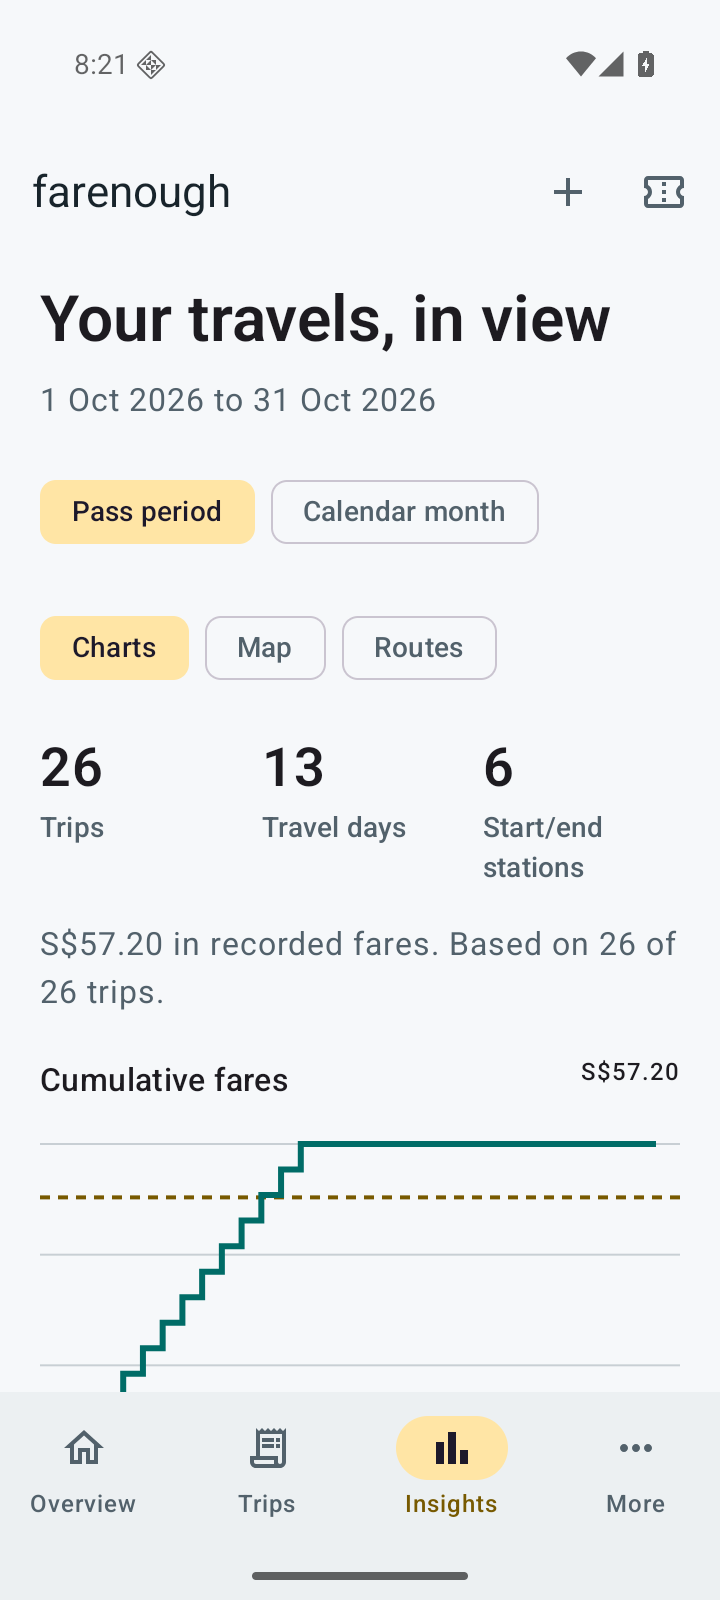
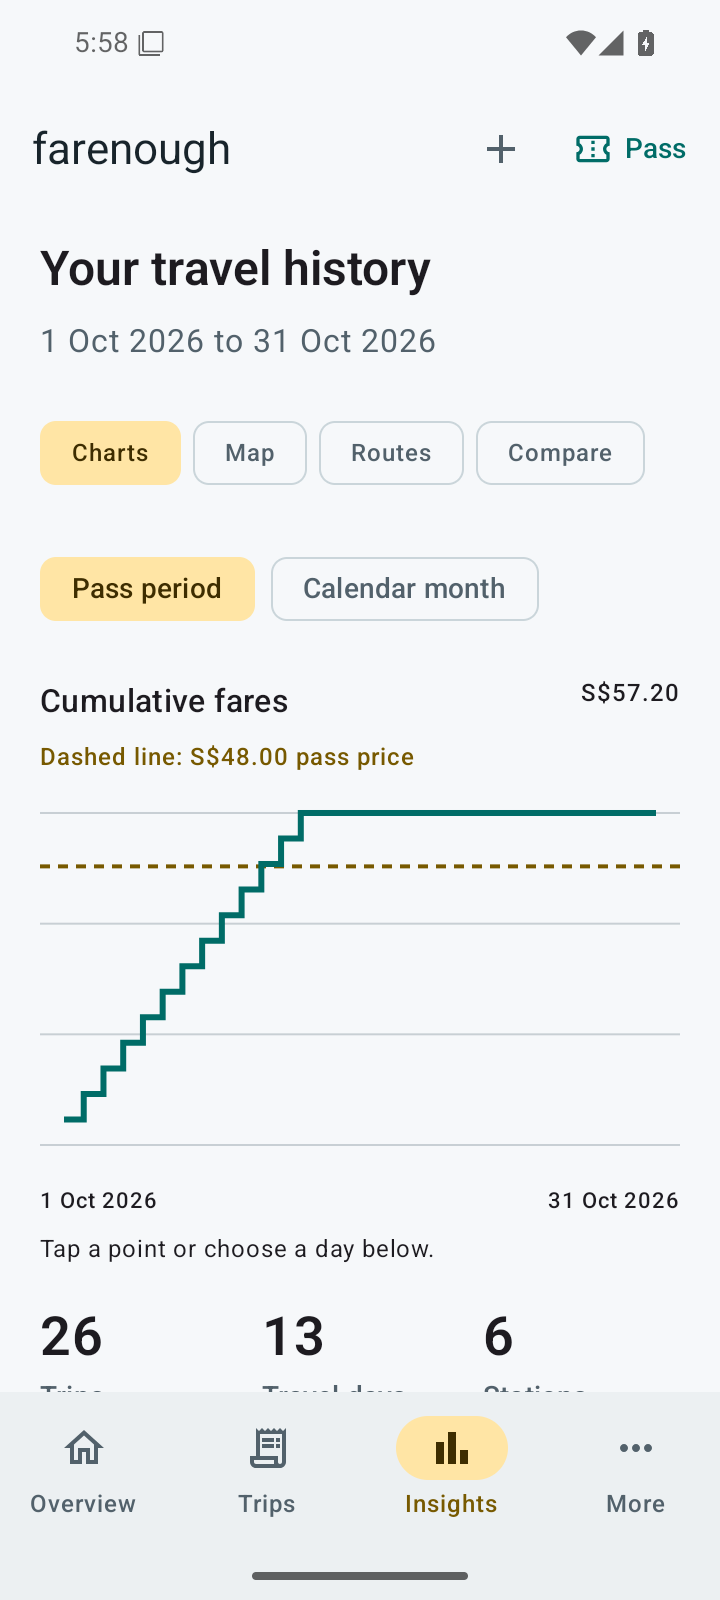
Document the Android UI audit and refresh release screenshots

diff --git a/UI_AUDIT.md b/UI_AUDIT.md
@@ -1,0 +1,55 @@
+# Android UI audit
+
+Reviewed 30 October 2026. Release: [v0.3.0](https://github.com/holsoma/farenough/releases/tag/v0.3.0).
+
+The review applied the awwwards skill's design, usability, creativity and content rubric to the existing native Android app. The purpose remains concrete: show whether recorded journey fares cover a pass, then make the records behind that result easy to inspect. Kotlin, Jetpack Compose and Material 3 were retained. Website requirements such as SEO and hover effects were not scored as Android requirements.
+
+## Changes shipped
+
+- Compare two recorded months by fares, journeys, travel days and average fare. Select a month in the history chart, then open its daily charts and map.
+- Browse recorded calendar months directly, including months outside a saved pass period.
+- Keep the cumulative chart above its detailed totals and explain the pass-price threshold before the chart.
+- Label the busiest map stations and show a selected connection's stations and journey count above the map.
+- Wrap view controls and stack comparison values at larger text sizes.
+- Keep Save journey visible beneath the scrolling entry form, with Swap beside the two station fields.
+- Label the Pass action, state the pass coverage percentage, and change the overview action after the pass is covered.
+- Use brief success messages instead of a blocking copy confirmation. Explain the import process in ordinary language.
+- Show unpriced records as **Not priced** and withhold incomplete monetary comparisons.
+
+## Review estimates
+
+Each pass used a separate critic who saw screenshots and the review rubric, without app code or earlier scores. The weights are Design 40%, Usability 30%, Creativity 20% and Content 10%.
+
+| Pass | Design | Usability | Creativity | Content | Weighted |
+| --- | ---: | ---: | ---: | ---: | ---: |
+| Baseline | 6.7 | 6.0 | 6.5 | 7.2 | 6.48 |
+| First signed build | 7.0 | 6.5 | 6.5 | 7.5 | 6.80 |
+| Published v0.3.0 | 7.2 | 6.8 | 6.7 | 7.4 | 7.00 |
+
+These are independent review estimates, not official Awwwards ratings. The final estimate remains below the skill's 8/10 target.
+
+## Final evidence
+
+All 14 final screenshots were inspected. They came from the actual signed release on Android API 36, at 720 × 1600 pixels and density 320. Comparison captures also cover text scale 1.3. All records in public screenshots are invented and their example fares are labelled. No personal travel history is included.
+
+| Area | Evidence |
+| --- | --- |
+| Pass result | [Overview](site/public/screenshots/overview.png), [dark overview](site/public/screenshots/overview-dark.png), [trip target](site/public/screenshots/target.png) |
+| Insights | [Chart](site/public/screenshots/charts.png), [map](site/public/screenshots/map.png), [selected connection](site/public/screenshots/map-selected.png) |
+| Months | [Comparison](site/public/screenshots/month-comparison.png), [history](site/public/screenshots/month-history.png), [dark comparison](site/public/screenshots/comparison-dark.png) |
+| Larger text | [Comparison controls](site/public/screenshots/comparison-large.png), [stacked values](site/public/screenshots/comparison-large-details.png) |
+| Recording | [Journey list](site/public/screenshots/trips.png), [import](site/public/screenshots/import.png), [entry form](site/public/screenshots/add-trip.png) |
+
[1 lines of base64/hex data omitted]
+
+[Release checks](https://github.com/holsoma/farenough/actions/runs/40888845283) passed, including 46 core tests, 11 Android device tests, Android lint and the website build. Automated tests verify behaviour; they do not establish visual quality. The older `automatic-fare.png` and `automatic-distance.png` documentation images are retained from v0.2.0 and were excluded from this final review.
+
+## Remaining improvements
+
+1. Fade unselected map connections and outline the selected connection so overlapping routes are easier to distinguish.
+2. Add intermediate date and currency labels to the cumulative chart. The app already shows the selected date and cumulative amount, but the final captures do not include that state.
+3. Simplify the month-history progress bars. Their default track and endpoint marks do not explain additional data.
+4. Show an accepted import example near the input and make the review step easier to discover. The external AI formatting step remains part of the requested import workflow.
+5. Reduce the gaps between Insights controls to leave more space for data.
+
+The screenshots establish visible layout at one phone size. They do not establish TalkBack order, keyboard behaviour, animation quality, frame rate or performance on a range of devices. System animations were disabled during capture. No measured accessibility or performance score is claimed.

diff --git a/README.md b/README.md
@@ -30,7 +30,7 @@ Record your Singapore MRT and LRT journeys. Compare their fares with your conces
 
 <p align="center">
   <a href="site/public/screenshots/overview.png"><img src="site/public/screenshots/overview.png" width="220" alt="Overview: pass cost, recorded fares and estimated savings" /></a>
-  <a href="site/public/screenshots/automatic-fare.png"><img src="site/public/screenshots/automatic-fare.png" width="220" alt="Journey entry: automatic adult fare and rail fare distance" /></a>
+  <a href="site/public/screenshots/month-comparison.png"><img src="site/public/screenshots/month-comparison.png" width="220" alt="Month comparison: fares, journeys, travel days and average fare" /></a>
   <a href="site/public/screenshots/map.png"><img src="site/public/screenshots/map.png" width="220" alt="Insights: monthly journey connections on a Singapore map" /></a>
 </p>
 
@@ -100,6 +100,6 @@ Map sources, transformations and checksums are listed in [data/sources.json](dat
 
 ## Contribute
 
-Read [CONTRIBUTING.md](CONTRIBUTING.md). Use synthetic examples in public issues, rather than private travel records. Implementation details and verified checks are recorded in [IMPLEMENTATION.md](IMPLEMENTATION.md). Screenshots are captured by [the Android UI test](app/src/androidTest/java/io/github/holsoma/fairenough/AppJourneyTest.kt).
+Read [CONTRIBUTING.md](CONTRIBUTING.md). Use synthetic examples in public issues, rather than private travel records. Implementation details and verified checks are recorded in [IMPLEMENTATION.md](IMPLEMENTATION.md). The [UI audit](UI_AUDIT.md) records the review findings and remaining limitations. Release screenshots are captured from the signed APK by the [screenshot workflow](.github/workflows/screenshots.yml), using invented records on an isolated Android emulator.
 
 Code: [Apache 2.0](LICENSE). Data and font licences are documented separately in [NOTICE.md](NOTICE.md). This project is not affiliated with LTA, SimplyGo or any transport operator.

diff --git a/site/src/pages/docs/targets-and-insights.md b/site/src/pages/docs/targets-and-insights.md
@@ -40,6 +40,10 @@ To browse older imports, select **Calendar month**, then **Choose month**. The l
 
 Open **Insights → Compare**. Choose the month to inspect and a second recorded month. The app shows the selected month's recorded fares, its difference from the other month, journey counts, travel days and average fares. Tap a month in **Month by month** to select it, or choose **Explore** to open that month's charts and map.
 
+<a href="/farenough/screenshots/month-comparison.png"><img src="/farenough/screenshots/month-comparison.png" width="320" height="711" loading="lazy" alt="October and September comparison showing recorded fares, journey counts, travel days and average fares." /></a>
+
+Actual v0.3.0 screen with invented records and example fares. Select the image to view it at full size.
+
 Switch the monthly bars between **Journeys** and **Fares**. Fare comparisons remain incomplete if either month has missing prices. Average fares use priced journeys only. A month still in progress, incomplete records, or a tariff change can affect the comparison. Calendar fare totals are not pass savings; pass comparisons continue to use each pass's actual validity dates.
 
 The map labels the busiest stations. Select a connection to show both station names and its journey count above the map. Larger text uses wrapping view controls and stacked comparison values.

diff --git a/DESIGN.md b/DESIGN.md
@@ -94,3 +94,5 @@ Baseline independent screenshot review: Design 6.7, Usability 6.0, Creativity 6.
 
 
 The first signed-build review scored Design 7.0, Usability 6.5, Creativity 6.5 and Content 7.5 (weighted 6.8). Its observed large-text clipping, crowded comparison headers, unlabelled map stations and off-screen form completion action were treated as fixes. View controls now wrap, larger-text comparison rows stack, the map labels its busiest and selected stations, and journey saving stays fixed below the scrolling form. The fare chart precedes its detailed summary and labels the pass threshold before the plot.
+
+The final review used 14 captures from the published v0.3.0 APK, including light and dark themes, map selection and comparison text at 1.3 scale. The independent estimate was Design 7.2, Usability 6.8, Creativity 6.7 and Content 7.4, weighted 7.0. It confirms the specific layout fixes but does not meet the skill's 8/10 target. Remaining work includes stronger selected-map contrast, more chart scale labels and simpler month-history bar marks. TalkBack, motion and frame rate remain unmeasured. See [UI_AUDIT.md](UI_AUDIT.md) for the evidence and limits; these scores are estimates, not awards.
